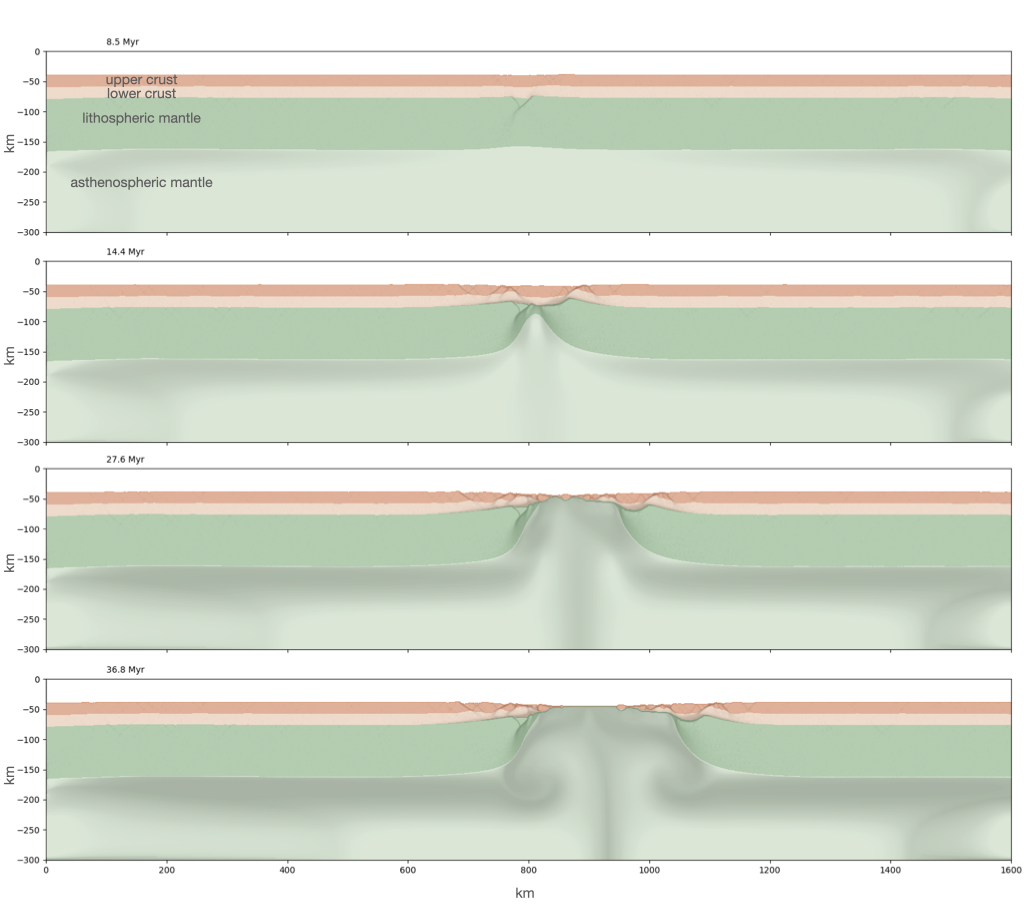
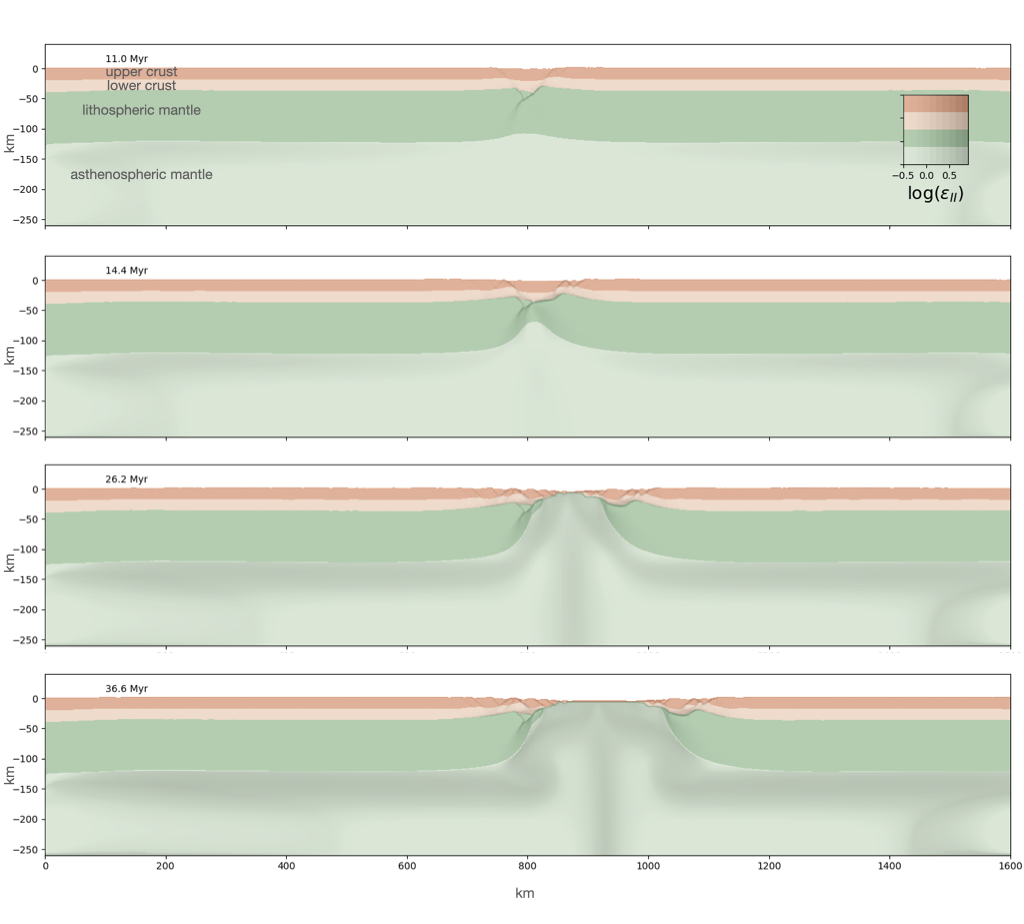
Corrections in the paper

diff --git a/paper/paper.md b/paper/paper.md
@@ -10,12 +10,14 @@ authors:
   - name: Victor Sacek
     orcid: 0000-0001-9598-5081
     affiliation: 1
-  - name: Jamison F. Assunção
+  - name: Jamison Assunção
+    orcid: 0000-0003-2822-2417
     affiliation: 1
   - name: Agustina Pesce
     orcid: 0000-0002-5538-8845
     affiliation: "2,3"
   - name: Rafael Monteiro da Silva
+    orcid: 0000-0001-8645-2443
     affiliation: 1
 affiliations:
   - name: Instituto de Astronomia, Geofísica e Ciências Atmosféricas, Universidade de São Paulo, Brazil
@@ -40,8 +42,7 @@ Additionally, the code allows variations of boundary condition for the velocity 
 
 # Statement of need
 
-Although `Mandyoc` is the acronym for `MANtle DYnamics simulatOr Code`, the code is not limited to mantle convection.
-It is designed to simulate general thermo-chemical convection in Stokes flow, taking different compositional layers into account, also appropriate to simulate Earth's lithospheric dynamics in the geological timescale.
+Although `Mandyoc` is the acronym for `MANtle DYnamics simulatOr Code`, it is designed to simulate Stokes flow type thermo-chemical convection taking different compositional layers into account, and it is also appropriate to simulate Earth's lithospheric dynamics in the geological timescale.
 
 Previous versions of the code was applied to study the evolution of continental margins, showing the interaction between continental lithosphere with the asthenospheric mantle [@sacek2017post;@salazar2021lateral].
 
@@ -68,7 +69,7 @@ $u_i$ is the component $i$ of the velocity field, $T$ is temperature, $t$ is tim
 
 The code is fully parallelized using the Portable, Extensible Toolkit for Scientific Computation (PETSc) [@petsc-efficient;@petsc-user-ref;@petsc-web-page].
 The present version of the code can simulate thermochemical convection using different rheological formulations: Newtonian flow, non-linear viscous flow or visco-plastic deformation.
-For example, the lithosphere can be simulated as a combination of different visco-plastic layers in which the effective viscosity depends on a nonlinear power law viscous rheology and a plastic yield criterium, like the Drucker-Prager criterium.
+For example, the lithosphere can be simulated as a combination of different visco-plastic layers in which the effective viscosity depends on a nonlinear power law viscous rheology and a plastic yield criterion, like the Drucker-Prager criterion.
 Additionally, strain softening is implemented to facilitate the localization of strain in the plastic regime during, for example, lithospheric stretching.
 
 The composition and strain history is tracked by particles present in the interior of the finite element.
@@ -81,11 +82,11 @@ Different benchmarks are available in the repository and can be reproduced by th
 
 As an example of application of `Mandyoc`, \autoref{fig:rift} presents snapshots of one numerical scenario of lithospheric stretching imposing a divergent flow direction, resulting in rifting and break-up.
 In this example, the upper crust, lower crust, lithospheric mantle and asthenosphere present different rheology and density, resulting in faulting mainly in the upper crust and part of the lithospheric mantle.
-Additionally, deformations in the lower crust and at the base of the lithospheric mantle are accommodated by ductil creep flow. This example can be reproduced from the repository.
+Additionally, deformations in the lower crust and at the base of the lithospheric mantle are accommodated by ductile creep flow. This example can be reproduced from the repository.
 
 # Figures
 
-![`Mandyoc` example of application of the thermo-mechanical model to simulate the stretching of the lithosphere, assuming different rheologies. Details can be found in the repository.\label{fig:rift}](JOSS_figure.png)
+![`Mandyoc` example of application of the thermo-mechanical model to simulate the stretching of the lithosphere, assuming different rheologies. The scales of gray represent cumulative strain in the different materials. Details can be found in the repository.\label{fig:rift}](JOSS_figure.png)
 
 # Acknowledgements
 
